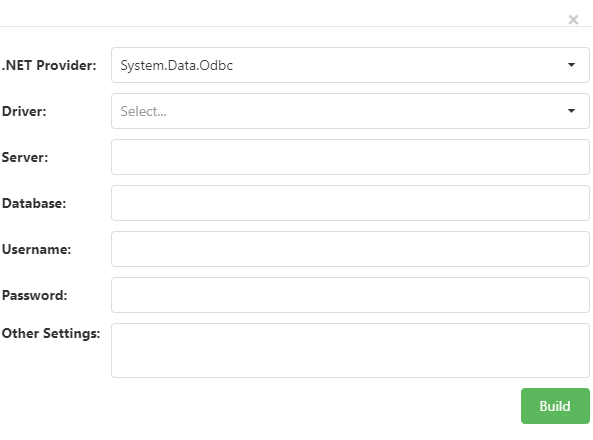
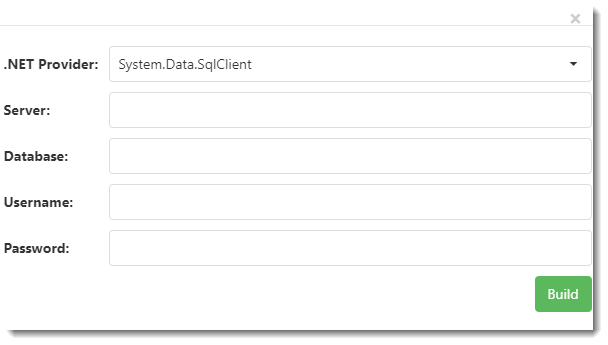
Updated with 1.3 changes.

diff --git a/_docs/whats-new.md b/_docs/whats-new.md
@@ -15,9 +15,9 @@ parent: Home
 
 * Swapped MySql.Data.MySqlClient provider with MySqlConnector since it works better with MariaDB
 
-* Defined foreign keys in the database schema for a MySql database are now supported for relationship creation during a refresh.
+* Defined foreign keys in the database schema for a MySql database will now appear as corresponding relations for the table in Studio.
 
-* You can now use external authentication (Open ID Connect) with a tenant based project. A Tenant claim (for an existing tenant) must be attached to the ID Token the auth server returns during authentication or the request will be denied.  
+* You can now use external authentication (Open ID Connect) with a tenant based project. 
 
 * Externally authenticated users can now use 2-factor authentication.
 
@@ -25,13 +25,15 @@ parent: Home
 
 * You can now save a connection string, even if a test connection fails. 
 
+* The connection string builder is now available from a few new places.
+
 * The report writer navigation button in Studio no longer requires a restart.
 
 * If a project has more than one database, the source database name is displayed in the table caption when creating a join.
 
 * If you change any authentication settings for a project, you now get a warning that a restart is required for the changes to take effect.
 
-* If the authentication settings for a project are causing a startup failure or a login problem, you can use the new command line parameter clearauthsettings=true. This allows you to start up the project from Kestrel while ignoring the authenticaiton settings to resolve the issue.
+* If the authentication settings for a project are causing a startup failure or a login problem, you can use the new command line parameter clearauthsettings=true. This allows you to start up the project locally while ignoring the authenticaiton settings to resolve the issue.
 
 * Sql Server and MySql project connection types also have a default connection string similar to SQLite.
 

diff --git a/_docs/how-to/externalidentproviders.md b/_docs/how-to/externalidentproviders.md
@@ -7,6 +7,10 @@ parent: How To
 
 Horizon Reports supports using an external identity provider for single sign-on (SSO) (e.g. Active Directory Federation Services or OpenID Connect). In addition, you can also enable support for third party identity providers via Google, Facebook, or Twitter social media accounts. Each of these authentication options can be configured by entering the appropriate information in the Configuration Settings section of the project.
 
+
+> <span class="glyphicon glyphicon-info-sign" aria-hidden="true"></span> After changing any of these settings, you'll need to restart the application before they take effect. If you find that you're unable to login after a setting change, launch Horizon Reports locally with HRWeb.exe and pass clearauthsettings=true as a command line argument.
+
+
 # Active Directory Federation Services
 
 To enable external authentication using Active Directory Federation Services, you need to specify the *ADFS Metadata address* and the *ADFS Realm*.
@@ -24,6 +28,10 @@ To enable external authentication using OpenID Connect, you need to specify the 
 * *OpenID ClientID*: The ClientID value to send to the OpenID Connect authentication server.
 
 * *OpenID ClientSecret*: The secret key value to send to the OpenID Connect authentication server.
+
+## Tenant Support With OIDC
+
+If you have tenants enabled for a project, you can still use external authentication. In this case, during the connection/authorization process, the Identity Provider must tell Horizon Reports what tenant the current user belongs to. To do this, attach a tenant claim (for an existing tenant) to the ID Token the IdP server returns during authentication. If there's no tenant attached, or the tenant that's attached doesn't exist, the login attempt will be rejected.
 
 # Facebook
 

diff --git a/_docs/deploying/publishing.md b/_docs/deploying/publishing.md
@@ -1,14 +1,14 @@
 ---
 layout: default
 title: Publishing Horizon Reports
-nav_order: 4
+nav_order: 2
 parent: Deploying Horizon Reports
 ---
 
 # Publishing a Project
 To deploy Horizon Reports on a web server, you need to deploy two things:
 
-- Horizon Reports web application: On the web server, download the [web application installer](https://www.horizon-reports.com/downloads/current/hrwebsetup.exe) and install. The application requires the [ASP.NET Core 6.0 Hosting Bundle](https://download.visualstudio.microsoft.com/download/pr/ae1014c7-a005-4a0e-9062-b6f3056ded09/da5d731f5ead9e385427a77412b88fb0/dotnet-hosting-6.0.5-win.exe), but the installer should automatically download and install this. Under linux, you must first have [docker](https://www.docker.com/) installed. Then, use the [horizon-reports-docker](gchr.io) image to create a new container. 
+- Horizon Reports web application: On the web server, download the [web application installer](https://www.horizon-reports.com/downloads/current/hrwebsetup.exe) and install. The application requires the [ASP.NET Core 8.0 Hosting Bundle](https://download.visualstudio.microsoft.com/download/pr/00397fee-1bd9-44ef-899b-4504b26e6e96/ab9c73409659f3238d33faee304a8b7c/dotnet-hosting-8.0.4-win.exe), but the installer should automatically download and install this. Under linux, you must first have [docker](https://www.docker.com/) installed. Then, use the [horizon-reports-docker](gchr.io) image to create a new container. 
 
 > <span class="glyphicon glyphicon-info-sign" aria-hidden="true"></span> If you're deploying to Azure or similar and are unable to run the installer, instead install to a local folder and then upload the contents of that folder to the server.
 

diff --git a/_docs/deploying/configuring-iis/migrating.md b/_docs/deploying/configuring-iis/migrating.md
@@ -15,14 +15,6 @@ Custom "appsettings" in web.config are no longer supported. Previously defined s
 ## Application pool
 The web application no longer supports using a shared application pool. If you previously hosted with a shared pool, create a new [dedicated application pool]({% link _docs/deploying/configuring-iis/index.md %}).
 
-## Migrating existing data and settings
-It's recommended to migrate to a new application folder for this release. Once you create the new folder, make sure to set up the permissions as discussed in [Configuring IIS]({% link _docs/deploying/configuring-iis/index.md %}).
-The **App_Data**, **Project_Data**, and **Licenses** folders contain all the files that should be migrated to the new release. 
-
-![](/assets/images/remainingfolders.png)
-
-After this, continue publishing to the new application folder as discussed in the [Publishing Horizon Reports]({% link _docs/deploying/publishing.md %}) help topic.
-
 ## Plugins
 
-If you have existing plugins, they must be recompiled for .NET 6. If you aren't sure how to do this, you can consider using the [Automatic Compilation]({% link _docs/plugins/automatic-compilation.md %}) feature.
+If you have existing plugins, they must be recompiled for .NET 8. If you aren't sure how to do this, you can consider using the [Automatic Compilation]({% link _docs/plugins/automatic-compilation.md %}) feature.

diff --git a/_docs/support.md b/_docs/support.md
@@ -7,5 +7,7 @@ parent: Home
 
 If you need technical assistance, create a support ticket in the Support Center. To do so, navigate your browser to <a href="https://www.horizon-reports.com/helpdesk/" target="top">https://www.horizon-reports.com/helpdesk</a> and add a new ticket with a description of the problem.
 
-Note that your [software maintenance]({% link _docs/maintenance.md %}) must be current in order to receive technical support. Also note that services such as assisting with data dictionary setup, plugins, or report design and layout are not technical support but rather consulting. Please contact us for our consulting rates if you are interested in these services.
+Note that your [software maintenance]({% link _docs/maintenance.md %}) must be current in order to receive technical support. 
+
+Services such as assisting with data dictionary setup, plugins, or report design and layout are available at an hourly consulting rate. Please contact us for our consulting rates if you are interested in these services.
 

diff --git a/_docs/studio/configuration/configuration-settings.md b/_docs/studio/configuration/configuration-settings.md
@@ -72,6 +72,8 @@ Note that the email credentials used to send the email come from the "Demo Email
 
 * *Default Data Group for New Reports*: This property specifies which [data group]({% link _docs/studio/datadictionary/table-properties.md %}) is initially selected in Step 1 of the report wizards when the user creates a new report. To change this setting, select the desired data group from the drop-down list.
 
+* *Display 'Source Database' field*: If you set this to false, the 'Source Database' field that normally appears in each table when there's more than one datasource will instead be hidden."),
+
 * *Include Joins in the Where Clause*: Some database engines, such as Microsoft Access or older versions of Oracle, do not work properly with joins between tables specified in a JOIN clause of a SQL statement. Instead, they expect joins to be specified in the WHERE clause. For example, instead of using the following SQL statement for a query joining four tables:
 
     select Products.ProductName,Customers.CompanyName

diff --git a/_docs/installing.md b/_docs/installing.md
@@ -5,4 +5,4 @@ nav_order: 3
 parent: Home
 ---
 
-Installing Horizon Reports is much like installing any other application. Note that Horizon Reports needs Microsoft .NET 6 Hosting Bundle, so if that isn't already installed on your system, it'll be downloaded and installed as part of the Horizon Reports. If IIS is installed, the hosting bundle will add IIS specific components. Otherwise, you can ignore IIS related messages while installing the Hosting Bundle.
+Installing Horizon Reports is much like installing any other application. Note that Horizon Reports needs Microsoft .NET 8 Hosting Bundle, so if that isn't already installed on your system, it'll be downloaded and installed as part of the Horizon Reports. If IIS is installed, the hosting bundle will add IIS specific components. Otherwise, you can ignore IIS related messages while installing the Hosting Bundle.

diff --git a/_docs/licensing.md b/_docs/licensing.md
@@ -15,4 +15,6 @@ Horizon Reports is licensed on a per-user basis. That means each user who wants 
 
 * When you log in, Horizon Reports checks how many users are currently using a license. If all licenses are currently in use (for example, five users are currently logged in and there are five licenses in total), you are informed of this and returned to the Login page. So, Horizon Reports licensing is sometime called "concurrent use" because only as many users as there are licenses can be logged in at the same time.
 
+* If using tenant support in a project, you can limit the total number of licenses a tenant can be using concurrently.
+
 The Setup function in the Tools menu, which is only available for users in the Administrator role, can be used to [manage licenses]({% link _docs/how-to/activating.md %}).

diff --git a/_docs/plugins/index.md b/_docs/plugins/index.md
@@ -37,7 +37,7 @@ There are several different types of plugins in Horizon Reports:
 
 * [Web action]({% link _docs/plugins/webaction/index.md %}): these plugins support custom actions. The plugin's PerformAction method is called when its corresponding URL is navigated to, and the method is responsible for returning an appropriate HTTP response.
 
-Horizon Reports supports any .NET language for a plugin, and targets .NET 6.  When creating a new plugin project, you should create a class library that targets net6.0.
+Horizon Reports supports any .NET language for a plugin, and targets .NET 8.  When creating a new plugin project, you should create a class library that targets net8.0.
 
 A plugin is identified by Horizon Reports by the following:
 

diff --git a/_docs/deploying/index.md b/_docs/deploying/index.md
@@ -6,5 +6,3 @@ has_children: true
 ---
 
 There are three steps involved in deploying a Horizon Reports project to your end-users. The first is [creating customized help]({% link _docs/deploying/creating-help.md %}) for your project. The second is [installing Horizon Reports]({% link _docs/deploying/publishing.md %}) on the server. The third is setting up the Horizon Reports web application on a [web server]({% link _docs/deploying/configuring-iis/index.md %}).
-
-In addition, you may wish to provide some sample or standard [reports]({% link _docs/deploying/samplereports.md %}) or [templates]({% link _docs/deploying/sampletemplates.md %}) to your users. The topics under this section describe how to do these steps.

diff --git a/_docs/how-to/configuring.md b/_docs/how-to/configuring.md
@@ -65,6 +65,18 @@ You can configure the following options in an **hrsettings.json** file. The defa
     "ConnectionType": "SQLite"
 }
 ```
+- *AppDataConnectionString*: A connection string for a database that stores the application data (reports, users, tags, etc...). 
+```json
+{
+    "AppDataConnectionString": "Data Source=App_Data/hrdata.db"
+}
+```
+- *AppDataConnectionType*: The type of database that stores the application data. SQLite, SqlServer, and MySql are supported options.
+```json
+{
+    "ConnectionType": "SQLite"
+}
+```
 - *CurrentProject*: The database ID of the project to load in the report writer. Normally you would change this value in the Horizon Reports Studio interface. 
 ```json
 {

diff --git a/_docs/copyright.md b/_docs/copyright.md
@@ -7,6 +7,6 @@ parent: Home
 
 Horizon Reports is protected by copyright laws and international copyright treaties, as well as other intellectual property laws and treaties. This software is licensed, not sold. Except as expressly provided in any written license agreement from TNM Software, the furnishing of this software does not give you any license to any of TNM Software's patents, trademarks, copyrights, or other intellectual property.
 
-© 2022 TNM Software. All rights reserved.
+© 2024 TNM Software. All rights reserved.
 
 Other product and company names mentioned herein might be the trademarks of their respective owners.
